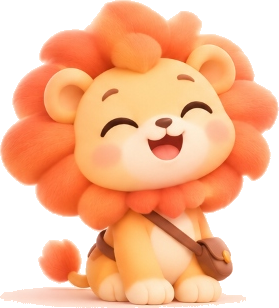
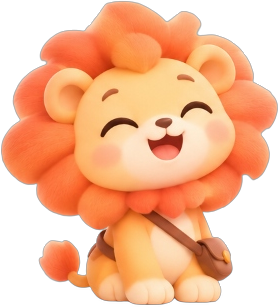
feat: add AuthBrandShowcase component and mascot assets

diff --git a/src/components/auth/auth-brand-showcase.tsx b/src/components/auth/auth-brand-showcase.tsx
@@ -15,40 +15,55 @@ import Image from 'next/image'
 export function AuthBrandShowcase(): React.ReactElement {
   return (
     <div className="flex w-full flex-col items-center select-none lg:items-start">
-      {/* 1. MASCOT & WELCOME BUBBLE DIORAMA */}
+      {/* 1. MASCOT & WELCOME BUBBLE DIORAMA ON FLOATING SANCTUARY DAIS */}
       <div className="relative flex flex-col items-center lg:items-start">
-        {/* Soft Ambient Golden Aura behind the mascot */}
+        {/* Soft Ambient Golden Aura behind the sanctuary */}
         <div
-          className="pointer-events-none absolute -top-8 -left-8 -z-10 h-64 w-64 rounded-full opacity-60 blur-3xl sm:h-72 sm:w-72"
+          className="pointer-events-none absolute -top-10 -left-10 -z-10 h-72 w-72 rounded-full opacity-60 blur-3xl sm:h-80 sm:w-80"
           style={{
             background:
-              'radial-gradient(circle, rgba(254, 215, 170, 0.85) 0%, rgba(253, 230, 138, 0.4) 50%, transparent 70%)',
+              'radial-gradient(circle, rgba(254, 215, 170, 0.85) 0%, rgba(253, 230, 138, 0.45) 50%, transparent 70%)',
           }}
         />
 
-        {/* Mascot + Floating Speech Bubble Container */}
-        <div className="relative flex items-center gap-3 sm:items-end sm:gap-4">
-          {/* Living 3D Baby Lion Mascot */}
-          <div className="relative animate-[floating_6s_ease-in-out_infinite]">
-            <Image
-              src="/clone-assets/mascot/mascot_sitting_wink.png"
-              alt="Luyện Thi Ảo Lion Mascot"
-              width={260}
-              height={280}
-              priority
-              className="short-landscape-mascot w-[75px] drop-shadow-[0_16px_28px_rgba(30,58,138,0.25)] transition-transform duration-500 hover:scale-105 sm:w-[150px] md:w-[180px] lg:w-[220px]"
-            />
-            {/* Soft Contact Shadow beneath mascot */}
-            <div className="pointer-events-none absolute -bottom-2 left-1/2 -z-10 h-2.5 w-3/4 -translate-x-1/2 rounded-full bg-indigo-950/20 blur-md sm:h-3.5" />
+        {/* Floating Sanctuary Stage (Mascot standing on 3D Pedestal Dais) */}
+        <div className="relative flex items-center gap-2 sm:items-end sm:gap-4">
+          {/* Unified Floating Island Group */}
+          <div className="relative flex flex-col items-center animate-[floating_6s_ease-in-out_infinite]">
+            {/* Living 3D Baby Lion Cub Hero (Interactive separate layer, NOT baked into background) */}
+            <div className="relative z-10 -mb-[26%] transition-transform duration-500 hover:scale-105 active:scale-95 sm:-mb-[28%] md:-mb-[30%]">
+              <Image
+                src="/clone-assets/mascot/mascot_hero_standing.png"
+                alt="Luyện Thi Ảo Lion Mascot"
+                width={260}
+                height={358}
+                priority
+                className="short-landscape-mascot w-[95px] drop-shadow-[0_12px_24px_rgba(234,88,12,0.22)] sm:w-[145px] md:w-[175px] lg:w-[205px]"
+              />
+              {/* Natural Contact Shadow on the stone dais */}
+              <div className="pointer-events-none absolute -bottom-1 left-1/2 -z-10 h-2.5 w-3/5 -translate-x-1/2 rounded-full bg-amber-950/30 blur-[2px] sm:h-3.5" />
 
-            {/* Little floating star sparkle near lion ear */}
-            <div className="pointer-events-none absolute -top-1.5 -right-1 animate-pulse text-xs text-amber-300 drop-shadow-[0_0_8px_rgba(251,191,36,0.8)] sm:text-sm">
-              ★
+              {/* Magical star sparkle near lion's ear */}
+              <div className="pointer-events-none absolute -top-1 -right-1 animate-pulse text-xs text-amber-300 drop-shadow-[0_0_8px_rgba(251,191,36,0.9)] sm:text-sm">
+                ★
+              </div>
+            </div>
+
+            {/* 3D Whimsical Floating Pedestal Dais (Stone ring, lush grass, golden runes, clouds) */}
+            <div className="relative z-0 select-none">
+              <Image
+                src="/clone-assets/mascot/mascot_pedestal_stage.png"
+                alt="Floating Sanctuary Pedestal"
+                width={360}
+                height={342}
+                priority
+                className="w-[155px] drop-shadow-[0_18px_32px_rgba(30,58,138,0.22)] sm:w-[235px] md:w-[285px] lg:w-[330px]"
+              />
             </div>
           </div>
 
           {/* Welcoming Explorer Speech Bubble (Desktop/Tablet prominent, compact on mobile) */}
-          <div className="relative hidden max-w-[210px] rounded-2xl border-2 border-white/90 bg-white/90 p-3 shadow-[0_8px_24px_rgba(100,110,180,0.14)] backdrop-blur-md transition-transform hover:-translate-y-1 sm:block sm:max-w-[230px] sm:p-3.5 lg:mb-6">
+          <div className="relative hidden max-w-[210px] rounded-2xl border-2 border-white/90 bg-white/90 p-3 shadow-[0_8px_24px_rgba(100,110,180,0.14)] backdrop-blur-md transition-transform hover:-translate-y-1 sm:block sm:max-w-[230px] sm:p-3.5 lg:mb-12">
             <div className="flex items-center gap-1.5 text-xs font-black text-amber-600 sm:text-sm">
               <Sparkles
                 className="h-4 w-4 shrink-0 animate-spin text-amber-500"
